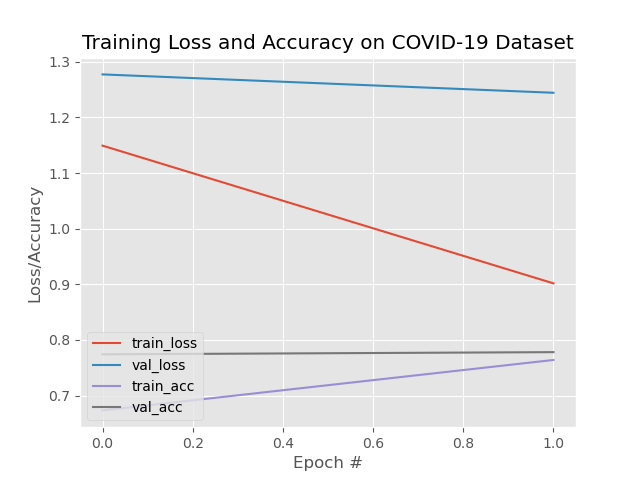
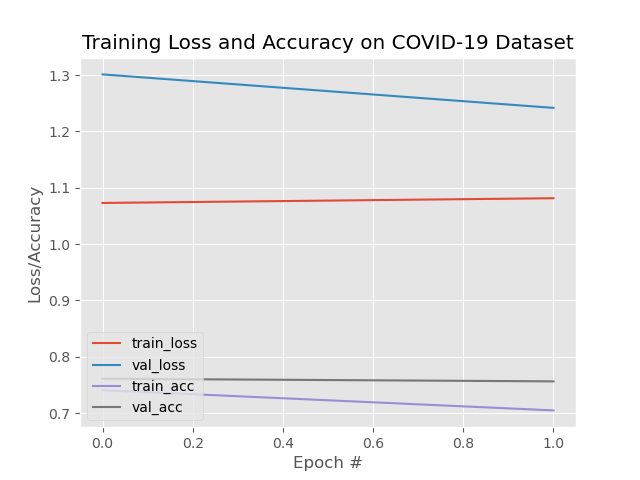
Added covid-19 as a separate output class.

diff --git a/src/preprocessing.py b/src/preprocessing.py
@@ -5,7 +5,7 @@ import pandas as pd
 import seaborn as sns
 from keras.preprocessing.image import ImageDataGenerator
 
-def generate_training_and_testing_set(nih_metadata_path, nih_image_path, pneumonia_image_path, covid19_image_path):
+def generate_training_and_testing_set(nih_metadata_path, nih_image_path, pneumonia_image_path, covid19_image_path, labels):
     """
     There are 3 datasets.
     1. NIH datasets: contains more than 100,000 images of different thoracic disease.
@@ -28,8 +28,9 @@ def generate_training_and_testing_set(nih_metadata_path, nih_image_path, pneumon
     df_NIH['path'] = df_NIH['Image Index'].map(full_img_paths.get)
 
     # keep 4 normal & single disease
-    # Todo: Extract out
-    labels = ['Effusion', 'Atelectasis', 'Infiltration', 'Pneumonia', 'No Finding'] #'Nodule', 
+    # labels = ['Effusion', 'Atelectasis', 'Infiltration', 'Pneumonia', 'No Finding'] #'Nodule', 
+    # This brings it back to the same state as it was before, with all of the labels definied else where
+    # labels = list(filter(lambda label: label != "COVID-19", all_labels))
 
     df_NIH = df_NIH[df_NIH['Finding Labels'].isin(labels)]
 
@@ -44,9 +45,7 @@ def generate_training_and_testing_set(nih_metadata_path, nih_image_path, pneumon
     ## 1.3 COVID-19 images preprocessing
     glob3 = glob(covid19_image_path)
     df_COVID19 = pd.DataFrame(glob3, columns=['path'])
-    df_COVID19['Finding Labels'] = 'Pneumonia' # be careful about the label here
-    # df_COVID19['Finding Labels'] = 'COVID-19' # be careful about the label here
-    # Todo: COVID might not be in the nih_metadata
+    df_COVID19['Finding Labels'] = 'COVID-19' # be careful about the label here
 
     # concat the NIH pneumonia, kaggle pneumonia and COVID-19 images together
     # here is the final data set
@@ -57,6 +56,9 @@ def generate_training_and_testing_set(nih_metadata_path, nih_image_path, pneumon
     for i in labels:
         temp = len(xray_data[xray_data['Finding Labels'].isin([i])])
         num.append(temp)
+
+    print("DEBUG: Number of each label = ")
+    print(dict(zip(labels, num)))
 
     # draw the data distribution
     df_draw = pd.DataFrame(data={'labels':labels, 'num':num})
@@ -143,9 +145,9 @@ def data_generator(train_datagen, test_datagen, train_set, test_set, valid_set):
 
     return (train_generator, test_generator, valid_X, valid_Y)
 
-def preprocessing(nih_metadata_path, nih_image_path, pneumonia_image_path, covid19_image_path):
+def preprocessing(nih_metadata_path, nih_image_path, pneumonia_image_path, covid19_image_path, labels):
 
-    (train_set, test_set, valid_set, xray_data) = generate_training_and_testing_set(nih_metadata_path, nih_image_path, pneumonia_image_path, covid19_image_path)
+    (train_set, test_set, valid_set, xray_data) = generate_training_and_testing_set(nih_metadata_path, nih_image_path, pneumonia_image_path, covid19_image_path, labels)
 
     debug_set(train_set, test_set, valid_set, xray_data)
 

diff --git a/src/compare_model.py b/src/compare_model.py
@@ -15,13 +15,13 @@ baseKerasModel = setup.models[0][2]
 EPOCHS = setup.EPOCHS
 
 # Preprocessing
-(train_generator, test_generator, valid_X, valid_Y) = preprocessing(nih_metadata_path, nih_image_path, pneumonia_image_path, covid19_image_path)
+(train_generator, test_generator, valid_X, valid_Y) = preprocessing(nih_metadata_path, nih_image_path, pneumonia_image_path, covid19_image_path, setup.labels)
 
 
 # ## model part
 
 # Todo: len(setup.labels) - 1 because COVID-19 is not a class yet
-no_of_classes = len(setup.labels) - 1
+no_of_classes = len(setup.labels)
 model = mb.construct(baseKerasModel, no_of_classes)
 
 evaluator = Evaluator(train_generator, test_generator, valid_X, valid_Y, EPOCHS)

diff --git a/src/dataset.py b/src/dataset.py
@@ -2,4 +2,4 @@ nih_metadata_path = r'D:\Hasan\Programming\Tensorflow\datasets\NIH\Data_Entry_20
 
 nih_image_path = "D:/Hasan/Programming/Tensorflow/datasets/NIH/images/images/*.png"
 pneumonia_image_path = "D:/Hasan/Programming/Tensorflow/datasets/PNEUMONIA/*.jpeg"
-covid19_image_path = "D:/Hasan/Programming/Tensorflow/datasets/COVID19_Ali_Jiaqi/*.*"
+covid19_image_path = "D:/Hasan/Programming/Tensorflow/datasets/COVID19_Ali_Jiaqi/COVID19_Ali_Jiaqi/*.*"
